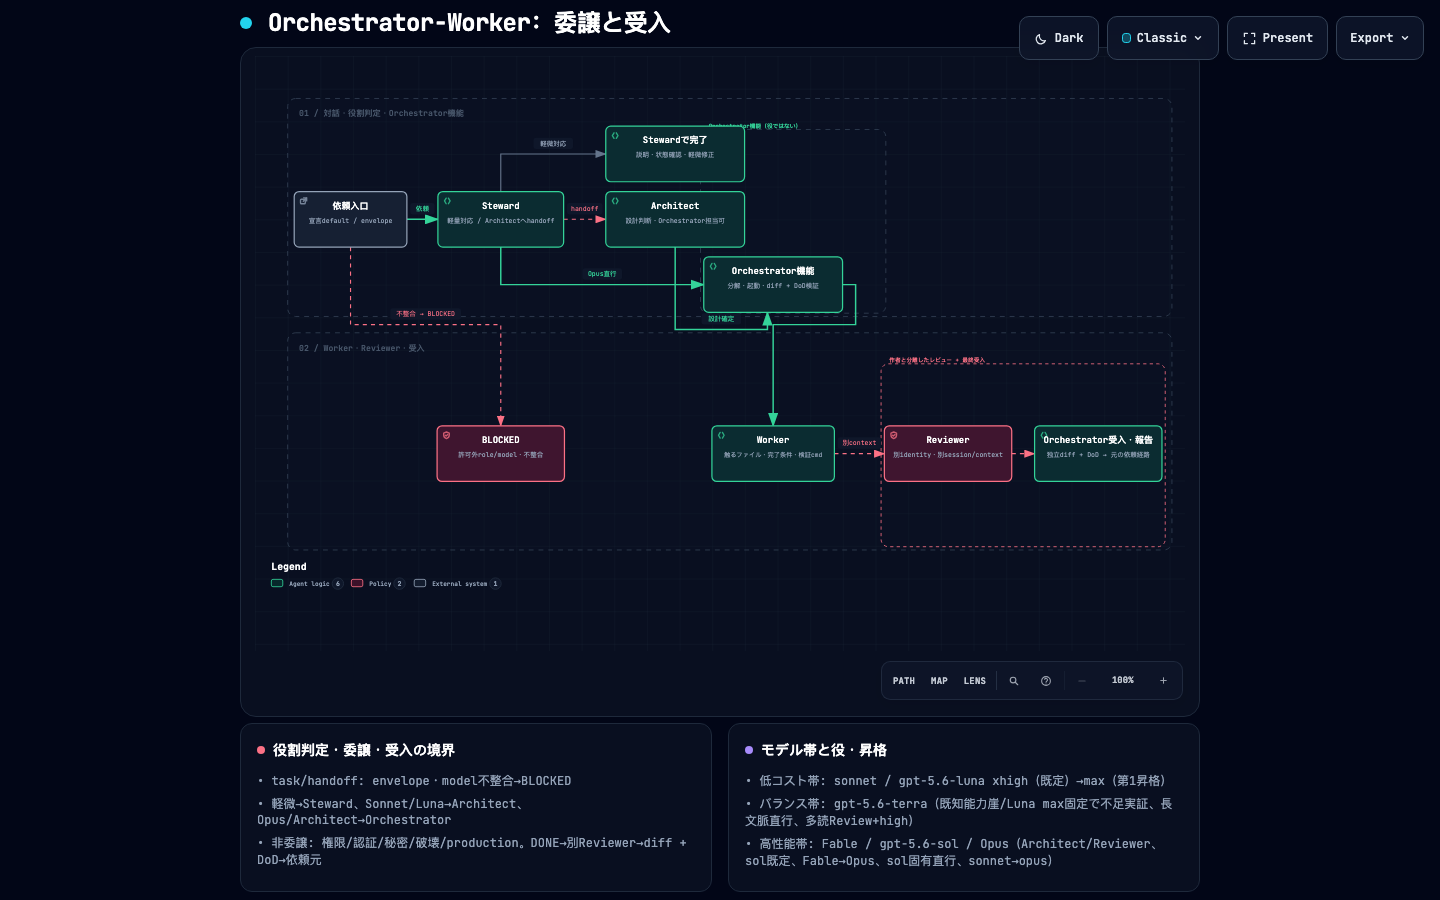
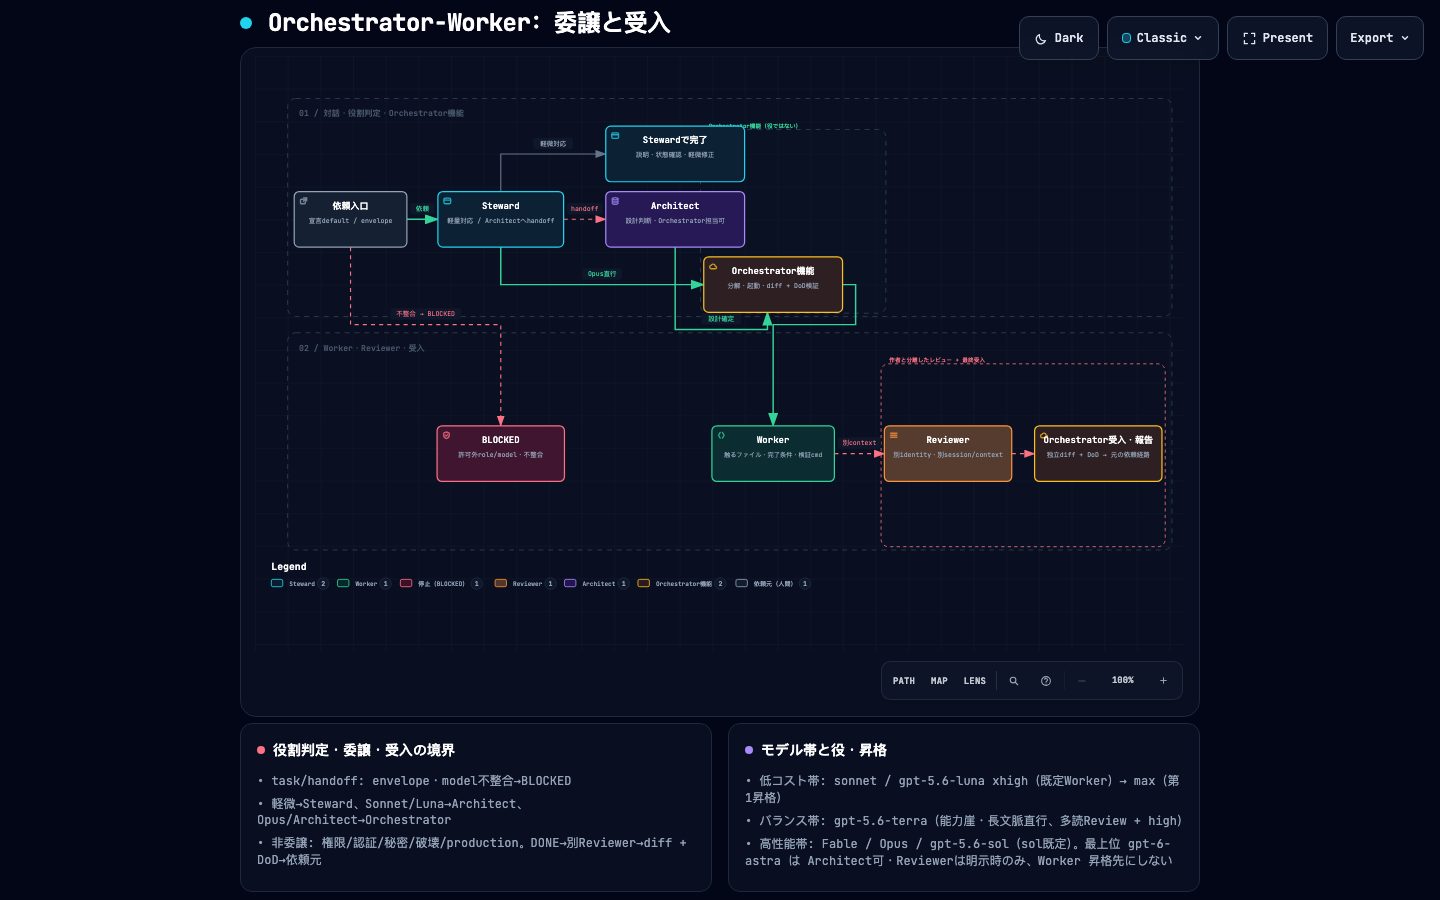
feat(diagrams): colour the orchestrator-worker nodes by role
Six of nine nodes shared the backend type, so Steward, Architect, Worker and
the Orchestrator function all rendered identically, and Reviewer sat in the
same red as BLOCKED — review reading as refusal. Give each role its own hue
and rename the legend entries through meta.legend.entries, since the stock
labels (User UI, Tool action, Cloud service) name infrastructure and would
now actively mislabel the roles.

Cost tier stays off the colour channel: the palette is the same seven hues
the roles use, and a model appears under several roles at once, so the two
readings would collide. The tiers keep their order and labels on the card,
which the astra row updates to match the skill.

diff --git a/docs/diagrams/orchestrator-worker.html b/docs/diagrams/orchestrator-worker.html
@@ -5070,52 +5070,59 @@
         <text data-detail="fine" x="117" y="222" class="t-external" font-size="7" text-anchor="middle">未宣言: 許可modelでS/A</text>
         </g>
 
-        <g id="node-steward" data-node-id="steward" data-node-label="Steward" tabindex="0" role="button" aria-label="Focus Steward, 軽量対応 / Architectへhandoff, 対話・役割判定・Orchestrator機能" aria-pressed="false" data-node-kind="backend" data-node-sublabel="軽量対応 / Architectへhandoff" data-node-tag="まずここへ" data-node-context="対話・役割判定・Orchestrator機能">
+        <g id="node-steward" data-node-id="steward" data-node-label="Steward" tabindex="0" role="button" aria-label="Focus Steward, 軽量対応 / Architectへhandoff, 対話・役割判定・Orchestrator機能" aria-pressed="false" data-node-kind="frontend" data-node-sublabel="軽量対応 / Architectへhandoff" data-node-tag="まずここへ" data-node-context="対話・役割判定・Orchestrator機能">
           <title>Steward · 軽量対応 / Architectへhandoff · 対話・役割判定・Orchestrator機能 · まずここへ</title>
           <rect x="224" y="166" width="154" height="68" rx="6" class="c-mask"/>
-          <rect x="224" y="166" width="154" height="68" rx="6" class="c-backend" stroke-width="1.5"/>
-          <g aria-hidden="true" data-semantic-sigil="backend" class="semantic-sigil s-backend" transform="translate(230 172) scale(0.6875)">
-            <path d="M6 3 3 8l3 5M10 3l3 5-3 5"/>
+          <rect x="224" y="166" width="154" height="68" rx="6" class="c-frontend" stroke-width="1.5"/>
+          <g aria-hidden="true" data-semantic-sigil="frontend" class="semantic-sigil s-frontend" transform="translate(230 172) scale(0.6875)">
+            <rect x="2" y="3" width="12" height="10" rx="2"/>
+            <path d="M2 6.5h12"/>
+            <circle cx="4.1" cy="4.8" r=".7" class="sigil-fill"/>
+            <circle cx="6.3" cy="4.8" r=".7" class="sigil-fill"/>
           </g>
           <text data-node-label="" data-detail-anchor="" x="301" y="187" class="t-primary" font-size="11" font-weight="600" text-anchor="middle">Steward</text>
           <text data-detail="context" x="301" y="204" class="t-muted" font-size="8" text-anchor="middle">軽量対応 / Architectへhandoff</text>
-        <text data-detail="fine" x="301" y="222" class="t-backend" font-size="7" text-anchor="middle">まずここへ</text>
+        <text data-detail="fine" x="301" y="222" class="t-frontend" font-size="7" text-anchor="middle">まずここへ</text>
         </g>
 
-        <g id="node-architect" data-node-id="architect" data-node-label="Architect" tabindex="0" role="button" aria-label="Focus Architect, 設計判断・Orchestrator担当可, 対話・役割判定・Orchestrator機能" aria-pressed="false" data-node-kind="backend" data-node-sublabel="設計判断・Orchestrator担当可" data-node-tag="handoff先" data-node-context="対話・役割判定・Orchestrator機能">
+        <g id="node-architect" data-node-id="architect" data-node-label="Architect" tabindex="0" role="button" aria-label="Focus Architect, 設計判断・Orchestrator担当可, 対話・役割判定・Orchestrator機能" aria-pressed="false" data-node-kind="database" data-node-sublabel="設計判断・Orchestrator担当可" data-node-tag="handoff先" data-node-context="対話・役割判定・Orchestrator機能">
           <title>Architect · 設計判断・Orchestrator担当可 · 対話・役割判定・Orchestrator機能 · handoff先</title>
           <rect x="429.6" y="166" width="170" height="68" rx="6" class="c-mask"/>
-          <rect x="429.6" y="166" width="170" height="68" rx="6" class="c-backend" stroke-width="1.5"/>
-          <g aria-hidden="true" data-semantic-sigil="backend" class="semantic-sigil s-backend" transform="translate(435.6 172) scale(0.6875)">
-            <path d="M6 3 3 8l3 5M10 3l3 5-3 5"/>
+          <rect x="429.6" y="166" width="170" height="68" rx="6" class="c-database" stroke-width="1.5"/>
+          <g aria-hidden="true" data-semantic-sigil="database" class="semantic-sigil s-database" transform="translate(435.6 172) scale(0.6875)">
+            <ellipse cx="8" cy="4" rx="5" ry="2"/>
+            <path d="M3 4v8c0 1.1 2.2 2 5 2s5-.9 5-2V4M3 8c0 1.1 2.2 2 5 2s5-.9 5-2"/>
           </g>
           <text data-node-label="" data-detail-anchor="" x="514.6" y="187" class="t-primary" font-size="11" font-weight="600" text-anchor="middle">Architect</text>
           <text data-detail="context" x="514.6" y="204" class="t-muted" font-size="8" text-anchor="middle">設計判断・Orchestrator担当可</text>
-        <text data-detail="fine" x="514.6" y="222" class="t-backend" font-size="7" text-anchor="middle">handoff先</text>
+        <text data-detail="fine" x="514.6" y="222" class="t-database" font-size="7" text-anchor="middle">handoff先</text>
         </g>
 
-        <g id="node-steward_end" data-node-id="steward_end" data-node-label="Stewardで完了" tabindex="0" role="button" aria-label="Focus Stewardで完了, 説明・状態確認・軽微修正, 対話・役割判定・Orchestrator機能" aria-pressed="false" data-node-kind="backend" data-node-sublabel="説明・状態確認・軽微修正" data-node-tag="ここで終了" data-node-context="対話・役割判定・Orchestrator機能">
+        <g id="node-steward_end" data-node-id="steward_end" data-node-label="Stewardで完了" tabindex="0" role="button" aria-label="Focus Stewardで完了, 説明・状態確認・軽微修正, 対話・役割判定・Orchestrator機能" aria-pressed="false" data-node-kind="frontend" data-node-sublabel="説明・状態確認・軽微修正" data-node-tag="ここで終了" data-node-context="対話・役割判定・Orchestrator機能">
           <title>Stewardで完了 · 説明・状態確認・軽微修正 · 対話・役割判定・Orchestrator機能 · ここで終了</title>
           <rect x="429.6" y="86" width="170" height="68" rx="6" class="c-mask"/>
-          <rect x="429.6" y="86" width="170" height="68" rx="6" class="c-backend" stroke-width="1.5"/>
-          <g aria-hidden="true" data-semantic-sigil="backend" class="semantic-sigil s-backend" transform="translate(435.6 92) scale(0.6875)">
-            <path d="M6 3 3 8l3 5M10 3l3 5-3 5"/>
+          <rect x="429.6" y="86" width="170" height="68" rx="6" class="c-frontend" stroke-width="1.5"/>
+          <g aria-hidden="true" data-semantic-sigil="frontend" class="semantic-sigil s-frontend" transform="translate(435.6 92) scale(0.6875)">
+            <rect x="2" y="3" width="12" height="10" rx="2"/>
+            <path d="M2 6.5h12"/>
+            <circle cx="4.1" cy="4.8" r=".7" class="sigil-fill"/>
+            <circle cx="6.3" cy="4.8" r=".7" class="sigil-fill"/>
           </g>
           <text data-node-label="" data-detail-anchor="" x="514.6" y="107" class="t-primary" font-size="11" font-weight="600" text-anchor="middle">Stewardで完了</text>
           <text data-detail="context" x="514.6" y="124" class="t-muted" font-size="8" text-anchor="middle">説明・状態確認・軽微修正</text>
-        <text data-detail="fine" x="514.6" y="142" class="t-backend" font-size="7" text-anchor="middle">ここで終了</text>
+        <text data-detail="fine" x="514.6" y="142" class="t-frontend" font-size="7" text-anchor="middle">ここで終了</text>
         </g>
 
-        <g id="node-orchestrator" data-node-id="orchestrator" data-node-label="Orchestrator機能" tabindex="0" role="button" aria-label="Focus Orchestrator機能, 分解・起動・diff + DoD検証, 対話・役割判定・Orchestrator機能 › Orchestrator機能（役ではない）" aria-pressed="false" data-node-kind="backend" data-node-sublabel="分解・起動・diff + DoD検証" data-node-tag="役ではない" data-node-context="対話・役割判定・Orchestrator機能 › Orchestrator機能（役ではない）">
+        <g id="node-orchestrator" data-node-id="orchestrator" data-node-label="Orchestrator機能" tabindex="0" role="button" aria-label="Focus Orchestrator機能, 分解・起動・diff + DoD検証, 対話・役割判定・Orchestrator機能 › Orchestrator機能（役ではない）" aria-pressed="false" data-node-kind="cloud" data-node-sublabel="分解・起動・diff + DoD検証" data-node-tag="役ではない" data-node-context="対話・役割判定・Orchestrator機能 › Orchestrator機能（役ではない）">
           <title>Orchestrator機能 · 分解・起動・diff + DoD検証 · 対話・役割判定・Orchestrator機能 › Orchestrator機能（役ではない） · 役ではない</title>
           <rect x="549.6" y="246" width="170" height="68" rx="6" class="c-mask"/>
-          <rect x="549.6" y="246" width="170" height="68" rx="6" class="c-backend" stroke-width="1.5"/>
-          <g aria-hidden="true" data-semantic-sigil="backend" class="semantic-sigil s-backend" transform="translate(555.6 252) scale(0.6875)">
-            <path d="M6 3 3 8l3 5M10 3l3 5-3 5"/>
+          <rect x="549.6" y="246" width="170" height="68" rx="6" class="c-cloud" stroke-width="1.5"/>
+          <g aria-hidden="true" data-semantic-sigil="cloud" class="semantic-sigil s-cloud" transform="translate(555.6 252) scale(0.6875)">
+            <path d="M4.3 12.5h7.3a2.4 2.4 0 0 0 .2-4.8 4 4 0 0 0-7.5-1.3A3.1 3.1 0 0 0 4.3 12.5Z"/>
           </g>
           <text data-node-label="" data-detail-anchor="" x="634.6" y="267" class="t-primary" font-size="11" font-weight="600" text-anchor="middle">Orchestrator機能</text>
           <text data-detail="context" x="634.6" y="284" class="t-muted" font-size="8" text-anchor="middle">分解・起動・diff + DoD検証</text>
-        <text data-detail="fine" x="634.6" y="302" class="t-backend" font-size="7" text-anchor="middle">役ではない</text>
+        <text data-detail="fine" x="634.6" y="302" class="t-cloud" font-size="7" text-anchor="middle">役ではない</text>
         </g>
 
         <g id="node-blocked" data-node-id="blocked" data-node-label="BLOCKED" tabindex="0" role="button" aria-label="Focus BLOCKED, 許可外role/model・不整合, Worker・Reviewer・受入" aria-pressed="false" data-node-kind="security" data-node-sublabel="許可外role/model・不整合" data-node-tag="実行しない" data-node-context="Worker・Reviewer・受入">
@@ -5143,29 +5150,31 @@
         <text data-detail="fine" x="634.6" y="509" class="t-backend" font-size="7" text-anchor="middle">DONEは未検証</text>
         </g>
 
-        <g id="node-reviewer" data-node-id="reviewer" data-node-label="Reviewer" tabindex="0" role="button" aria-label="Focus Reviewer, 別identity・別session/context, Worker・Reviewer・受入 › 作者と分離したレビュー + 最終受入" aria-pressed="false" data-node-kind="security" data-node-sublabel="別identity・別session/context" data-node-tag="REVIEW" data-node-context="Worker・Reviewer・受入 › 作者と分離したレビュー + 最終受入">
+        <g id="node-reviewer" data-node-id="reviewer" data-node-label="Reviewer" tabindex="0" role="button" aria-label="Focus Reviewer, 別identity・別session/context, Worker・Reviewer・受入 › 作者と分離したレビュー + 最終受入" aria-pressed="false" data-node-kind="messagebus" data-node-sublabel="別identity・別session/context" data-node-tag="REVIEW" data-node-context="Worker・Reviewer・受入 › 作者と分離したレビュー + 最終受入">
           <title>Reviewer · 別identity・別session/context · Worker・Reviewer・受入 › 作者と分離したレビュー + 最終受入 · REVIEW</title>
           <rect x="770.8" y="453" width="156" height="68" rx="6" class="c-mask"/>
-          <rect x="770.8" y="453" width="156" height="68" rx="6" class="c-security" stroke-width="1.5"/>
-          <g aria-hidden="true" data-semantic-sigil="security" class="semantic-sigil s-security" transform="translate(776.8 459) scale(0.6875)">
-            <path d="M8 2.2 13 4v3.5c0 3.1-1.8 5.4-5 6.5-3.2-1.1-5-3.4-5-6.5V4Z"/>
-            <path d="m5.8 8 1.5 1.5 3-3"/>
+          <rect x="770.8" y="453" width="156" height="68" rx="6" class="c-messagebus" stroke-width="1.5"/>
+          <g aria-hidden="true" data-semantic-sigil="messagebus" class="semantic-sigil s-messagebus" transform="translate(776.8 459) scale(0.6875)">
+            <path d="M2.5 4.5h11M2.5 8h11M2.5 11.5h11"/>
+            <circle cx="5" cy="4.5" r="1" class="sigil-fill"/>
+            <circle cx="10.5" cy="8" r="1" class="sigil-fill"/>
+            <circle cx="7" cy="11.5" r="1" class="sigil-fill"/>
           </g>
           <text data-node-label="" data-detail-anchor="" x="848.8" y="474" class="t-primary" font-size="11" font-weight="600" text-anchor="middle">Reviewer</text>
           <text data-detail="context" x="848.8" y="491" class="t-muted" font-size="8" text-anchor="middle">別identity・別session/context</text>
-        <text data-detail="fine" x="848.8" y="509" class="t-security" font-size="7" text-anchor="middle">REVIEW</text>
+        <text data-detail="fine" x="848.8" y="509" class="t-messagebus" font-size="7" text-anchor="middle">REVIEW</text>
         </g>
 
-        <g id="node-acceptance" data-node-id="acceptance" data-node-label="Orchestrator受入・報告" tabindex="0" role="button" aria-label="Focus Orchestrator受入・報告, 独立diff + DoD → 元の依頼経路, Worker・Reviewer・受入 › 作者と分離したレビュー + 最終受入" aria-pressed="false" data-node-kind="backend" data-node-sublabel="独立diff + DoD → 元の依頼経路" data-node-tag="最終受入" data-node-context="Worker・Reviewer・受入 › 作者と分離したレビュー + 最終受入">
+        <g id="node-acceptance" data-node-id="acceptance" data-node-label="Orchestrator受入・報告" tabindex="0" role="button" aria-label="Focus Orchestrator受入・報告, 独立diff + DoD → 元の依頼経路, Worker・Reviewer・受入 › 作者と分離したレビュー + 最終受入" aria-pressed="false" data-node-kind="cloud" data-node-sublabel="独立diff + DoD → 元の依頼経路" data-node-tag="最終受入" data-node-context="Worker・Reviewer・受入 › 作者と分離したレビュー + 最終受入">
           <title>Orchestrator受入・報告 · 独立diff + DoD → 元の依頼経路 · Worker・Reviewer・受入 › 作者と分離したレビュー + 最終受入 · 最終受入</title>
           <rect x="954.8" y="453" width="156" height="68" rx="6" class="c-mask"/>
-          <rect x="954.8" y="453" width="156" height="68" rx="6" class="c-backend" stroke-width="1.5"/>
-          <g aria-hidden="true" data-semantic-sigil="backend" class="semantic-sigil s-backend" transform="translate(960.8 459) scale(0.6875)">
-            <path d="M6 3 3 8l3 5M10 3l3 5-3 5"/>
+          <rect x="954.8" y="453" width="156" height="68" rx="6" class="c-cloud" stroke-width="1.5"/>
+          <g aria-hidden="true" data-semantic-sigil="cloud" class="semantic-sigil s-cloud" transform="translate(960.8 459) scale(0.6875)">
+            <path d="M4.3 12.5h7.3a2.4 2.4 0 0 0 .2-4.8 4 4 0 0 0-7.5-1.3A3.1 3.1 0 0 0 4.3 12.5Z"/>
           </g>
           <text data-node-label="" data-detail-anchor="" x="1032.8" y="474" class="t-primary" font-size="11" font-weight="600" text-anchor="middle">Orchestrator受入・報告</text>
           <text data-detail="context" x="1032.8" y="491" class="t-muted" font-size="8" text-anchor="middle">独立diff + DoD → 元の依頼経路</text>
-        <text data-detail="fine" x="1032.8" y="509" class="t-backend" font-size="7" text-anchor="middle">最終受入</text>
+        <text data-detail="fine" x="1032.8" y="509" class="t-cloud" font-size="7" text-anchor="middle">最終受入</text>
         </g>
 
         <!-- Edge labels -->
@@ -5203,17 +5212,33 @@
         <!-- Legend -->
         <g data-legend="" data-legend-bridge="">
           <text x="20" y="629" class="t-primary" font-size="12" font-weight="650">Legend</text>
-          <g data-legend-semantic-kind="backend" data-legend-kind="backend" data-legend-label="Agent logic" data-legend-x="20" data-legend-baseline="649" data-legend-width="91">
-            <rect x="20" y="641" width="14" height="9" rx="2" class="c-backend" stroke-width="1"/>
-            <text x="42" y="649" class="t-muted" font-size="7.5" font-weight="500">Agent logic</text>
+          <g data-legend-semantic-kind="frontend" data-legend-kind="frontend" data-legend-label="Steward" data-legend-x="20" data-legend-baseline="649" data-legend-width="74">
+            <rect x="20" y="641" width="14" height="9" rx="2" class="c-frontend" stroke-width="1"/>
+            <text x="42" y="649" class="t-muted" font-size="7.5" font-weight="500">Steward</text>
           </g>
-          <g data-legend-semantic-kind="security" data-legend-kind="security" data-legend-label="Policy" data-legend-x="118" data-legend-baseline="649" data-legend-width="70">
-            <rect x="118" y="641" width="14" height="9" rx="2" class="c-security" stroke-width="1"/>
-            <text x="140" y="649" class="t-muted" font-size="7.5" font-weight="500">Policy</text>
+          <g data-legend-semantic-kind="backend" data-legend-kind="backend" data-legend-label="Worker" data-legend-x="101" data-legend-baseline="649" data-legend-width="70">
+            <rect x="101" y="641" width="14" height="9" rx="2" class="c-backend" stroke-width="1"/>
+            <text x="123" y="649" class="t-muted" font-size="7.5" font-weight="500">Worker</text>
           </g>
-          <g data-legend-semantic-kind="external" data-legend-kind="external" data-legend-label="External system" data-legend-x="195" data-legend-baseline="649" data-legend-width="109">
-            <rect x="195" y="641" width="14" height="9" rx="2" class="c-external" stroke-width="1"/>
-            <text x="217" y="649" class="t-muted" font-size="7.5" font-weight="500">External system</text>
+          <g data-legend-semantic-kind="security" data-legend-kind="security" data-legend-label="停止（BLOCKED）" data-legend-x="178" data-legend-baseline="649" data-legend-width="109">
+            <rect x="178" y="641" width="14" height="9" rx="2" class="c-security" stroke-width="1"/>
+            <text x="200" y="649" class="t-muted" font-size="7.5" font-weight="500">停止（BLOCKED）</text>
+          </g>
+          <g data-legend-semantic-kind="messagebus" data-legend-kind="messagebus" data-legend-label="Reviewer" data-legend-x="294" data-legend-baseline="649" data-legend-width="78">
+            <rect x="294" y="641" width="14" height="9" rx="2" class="c-messagebus" stroke-width="1"/>
+            <text x="316" y="649" class="t-muted" font-size="7.5" font-weight="500">Reviewer</text>
+          </g>
+          <g data-legend-semantic-kind="database" data-legend-kind="database" data-legend-label="Architect" data-legend-x="379" data-legend-baseline="649" data-legend-width="83">
+            <rect x="379" y="641" width="14" height="9" rx="2" class="c-database" stroke-width="1"/>
+            <text x="401" y="649" class="t-muted" font-size="7.5" font-weight="500">Architect</text>
+          </g>
+          <g data-legend-semantic-kind="cloud" data-legend-kind="cloud" data-legend-label="Orchestrator機能" data-legend-x="469" data-legend-baseline="649" data-legend-width="113">
+            <rect x="469" y="641" width="14" height="9" rx="2" class="c-cloud" stroke-width="1"/>
+            <text x="491" y="649" class="t-muted" font-size="7.5" font-weight="500">Orchestrator機能</text>
+          </g>
+          <g data-legend-semantic-kind="external" data-legend-kind="external" data-legend-label="依頼元（人間）" data-legend-x="589" data-legend-baseline="649" data-legend-width="104">
+            <rect x="589" y="641" width="14" height="9" rx="2" class="c-external" stroke-width="1"/>
+            <text x="611" y="649" class="t-muted" font-size="7.5" font-weight="500">依頼元（人間）</text>
           </g>
         </g>
       </svg>
@@ -5420,9 +5445,9 @@
           <h3>モデル帯と役・昇格</h3>
         </div>
         <ul>
-          <li>&bull; 低コスト帯: sonnet / gpt-5.6-luna xhigh（既定）→max（第1昇格）</li>
-          <li>&bull; バランス帯: gpt-5.6-terra（既知能力崖/Luna max固定で不足実証、長文脈直行、多読Review+high）</li>
-          <li>&bull; 高性能帯: Fable / gpt-5.6-sol / Opus（Architect/Reviewer、sol既定、Fable→Opus、sol固有直行、sonnet→opus）</li>
+          <li>&bull; 低コスト帯: sonnet / gpt-5.6-luna xhigh（既定Worker）→ max（第1昇格）</li>
+          <li>&bull; バランス帯: gpt-5.6-terra（能力崖・長文脈直行、多読Review + high）</li>
+          <li>&bull; 高性能帯: Fable / Opus / gpt-5.6-sol（sol既定）。最上位 gpt-6-astra は Architect可・Reviewerは明示時のみ、Worker 昇格先にしない</li>
         </ul>
       </div>
     </div>

diff --git a/docs/diagrams/agent-delegation.md b/docs/diagrams/agent-delegation.md
@@ -24,8 +24,13 @@
 
 - [閲覧用 HTML](./orchestrator-worker.html)
 - [Archify 仕様](./orchestrator-worker.workflow.json)
+- [deliver 結果](./orchestrator-worker.deliver.json)
 - [visual-check 結果](./orchestrator-worker.visual-check.json)
-- 状態: HTML を生成済み。自動 visual-check は containment / readability /
-  viewerChrome / captures の 4 項目すべて pass（`diagnostics: 0`）。
-  receipt が記録するのは `visual-check` のみで、`deliver` の通過記録は無く
-  `visualReview` は pending。
+- 状態: `deliver`（showcase、9/9 checks、0 errors / 0 warnings）と
+  `visual-check`（containment / readability / viewerChrome / captures の
+  4 項目すべて pass、`diagnostics: 0`）を通過済み。両 receipt の
+  `artifact.sha256` は同一。`visualReview` は pending（人手の確認は別）。
+- ノードの色は役を表す。凡例のラベルは `meta.legend.entries` で役名へ差し替えてある
+  （既定は `User UI` などの汎用名で、役を示さない）。
+- コスト帯は色で表さない。パレットが役と共有の 7 色しかなく、
+  同じモデルが複数の役に出るため。帯はカード内の項目順序とラベルで示す。
